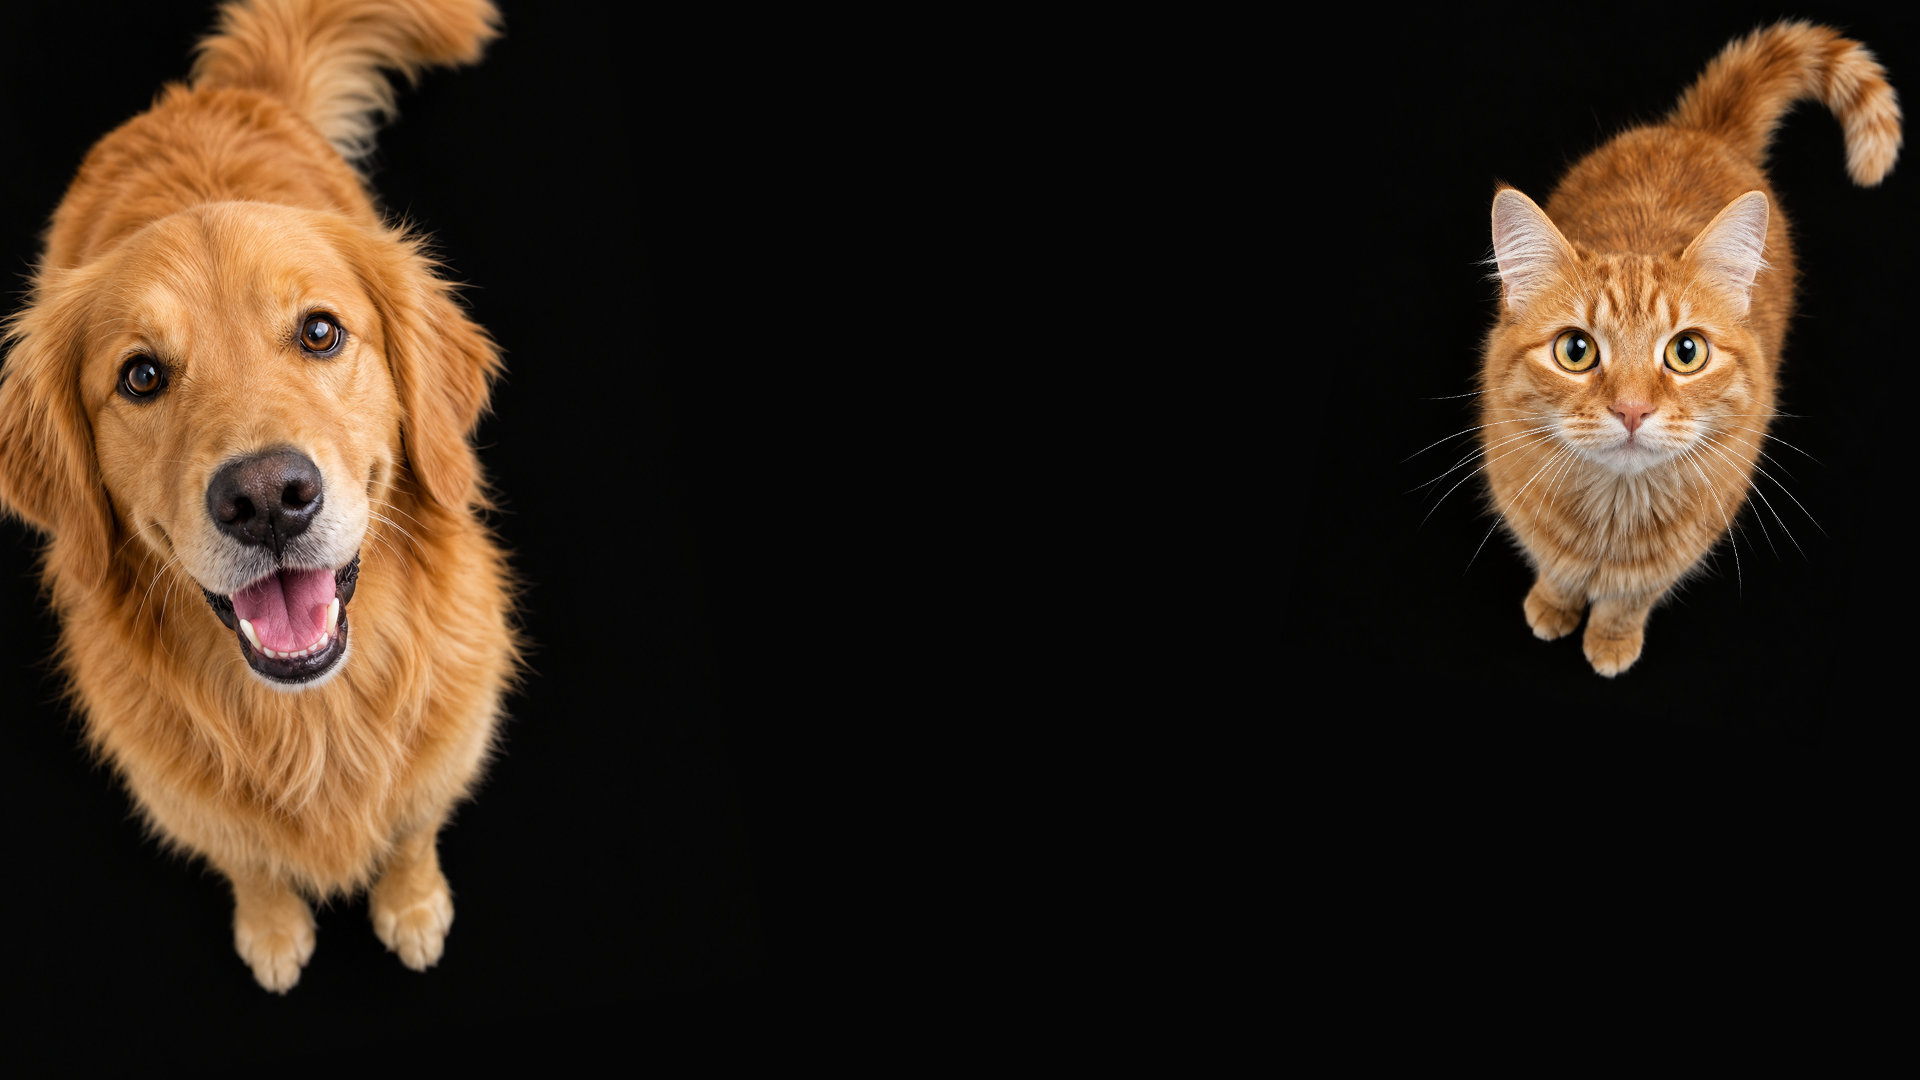
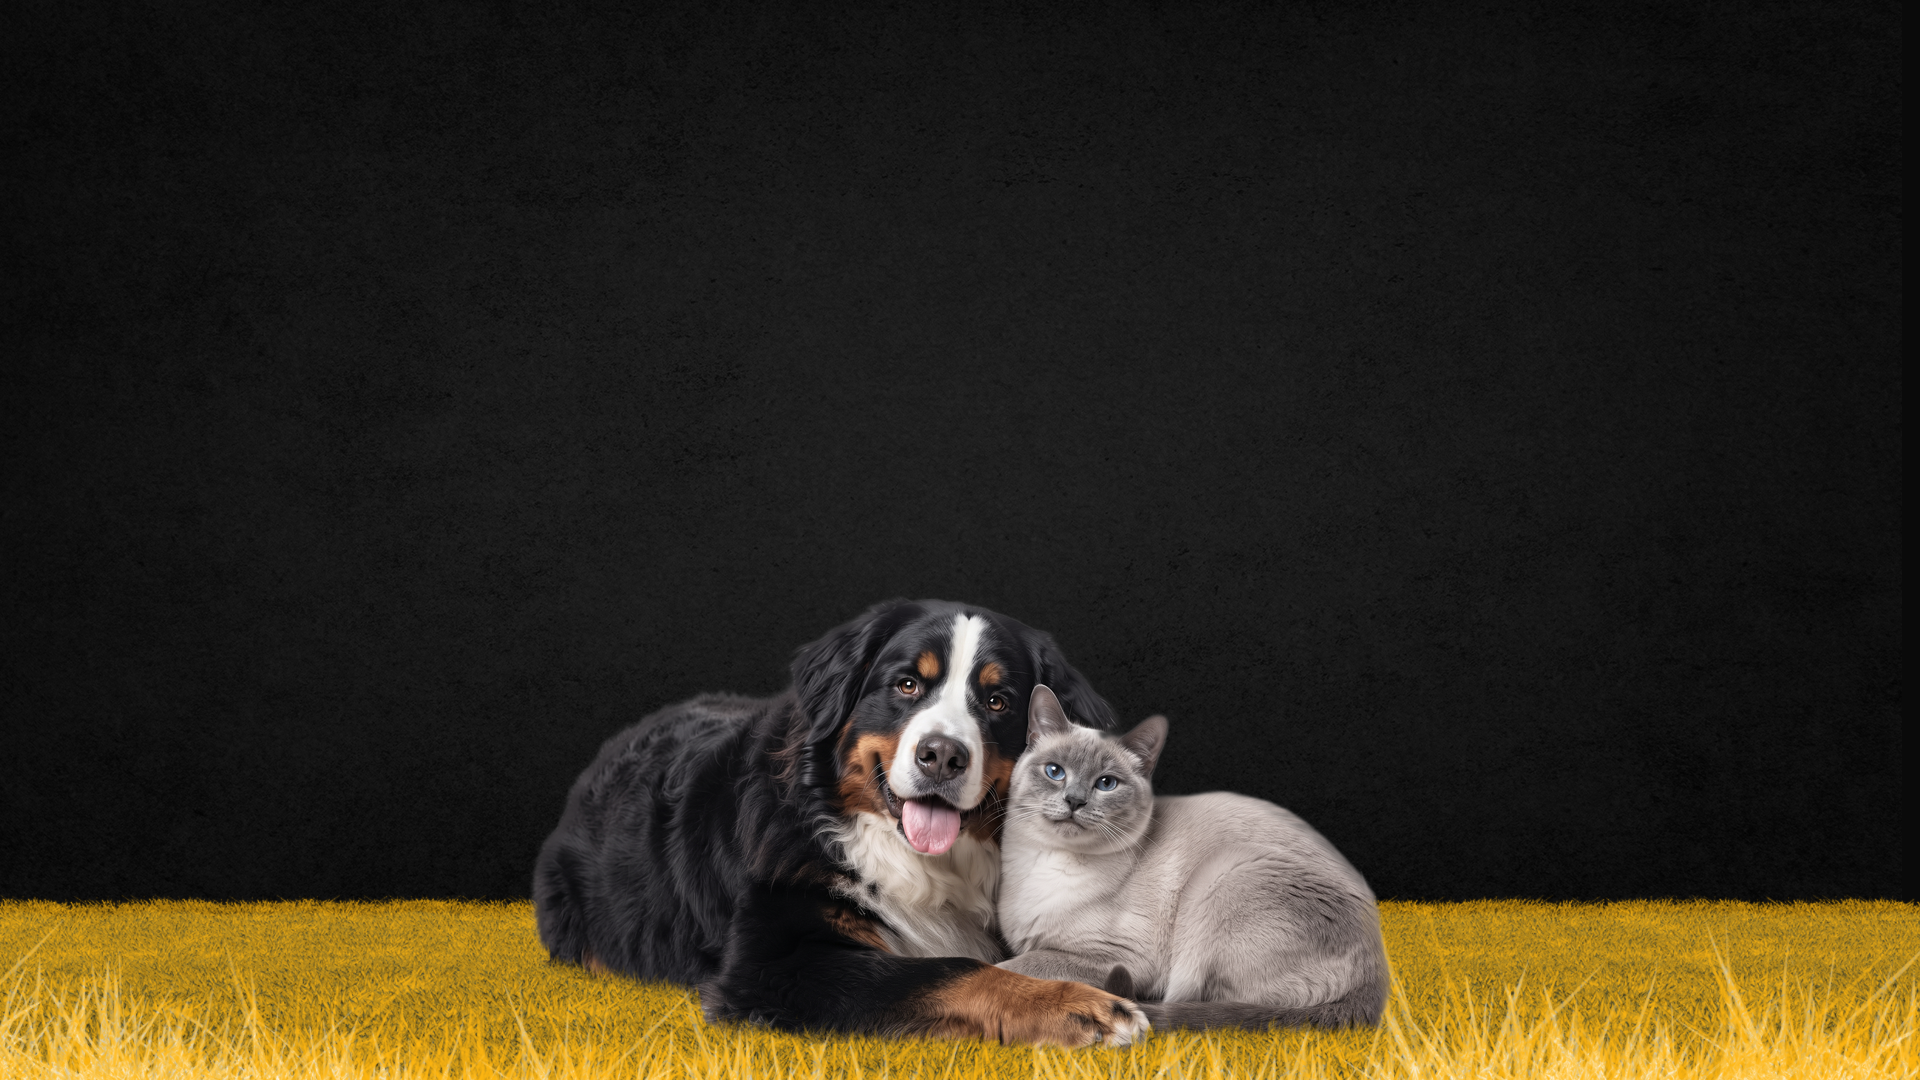
hero inicio

diff --git a/index.html b/index.html
@@ -21,7 +21,7 @@
 						</div>
 						<div class="content">
 							<div class="inner">
-								<p><span>ESTUDIO CREATIVO ESPECIALIZADO EN</span><span>MASCOTAS Y MARCAS PET FRIENDLY.</span></p>
+								<p><span>ESTUDIO CREATIVO ESPECIALIZADO EN MASCOTAS Y MARCAS PET FRIENDLY.</span></p>
 							</div>
 						</div>
 						<nav>
